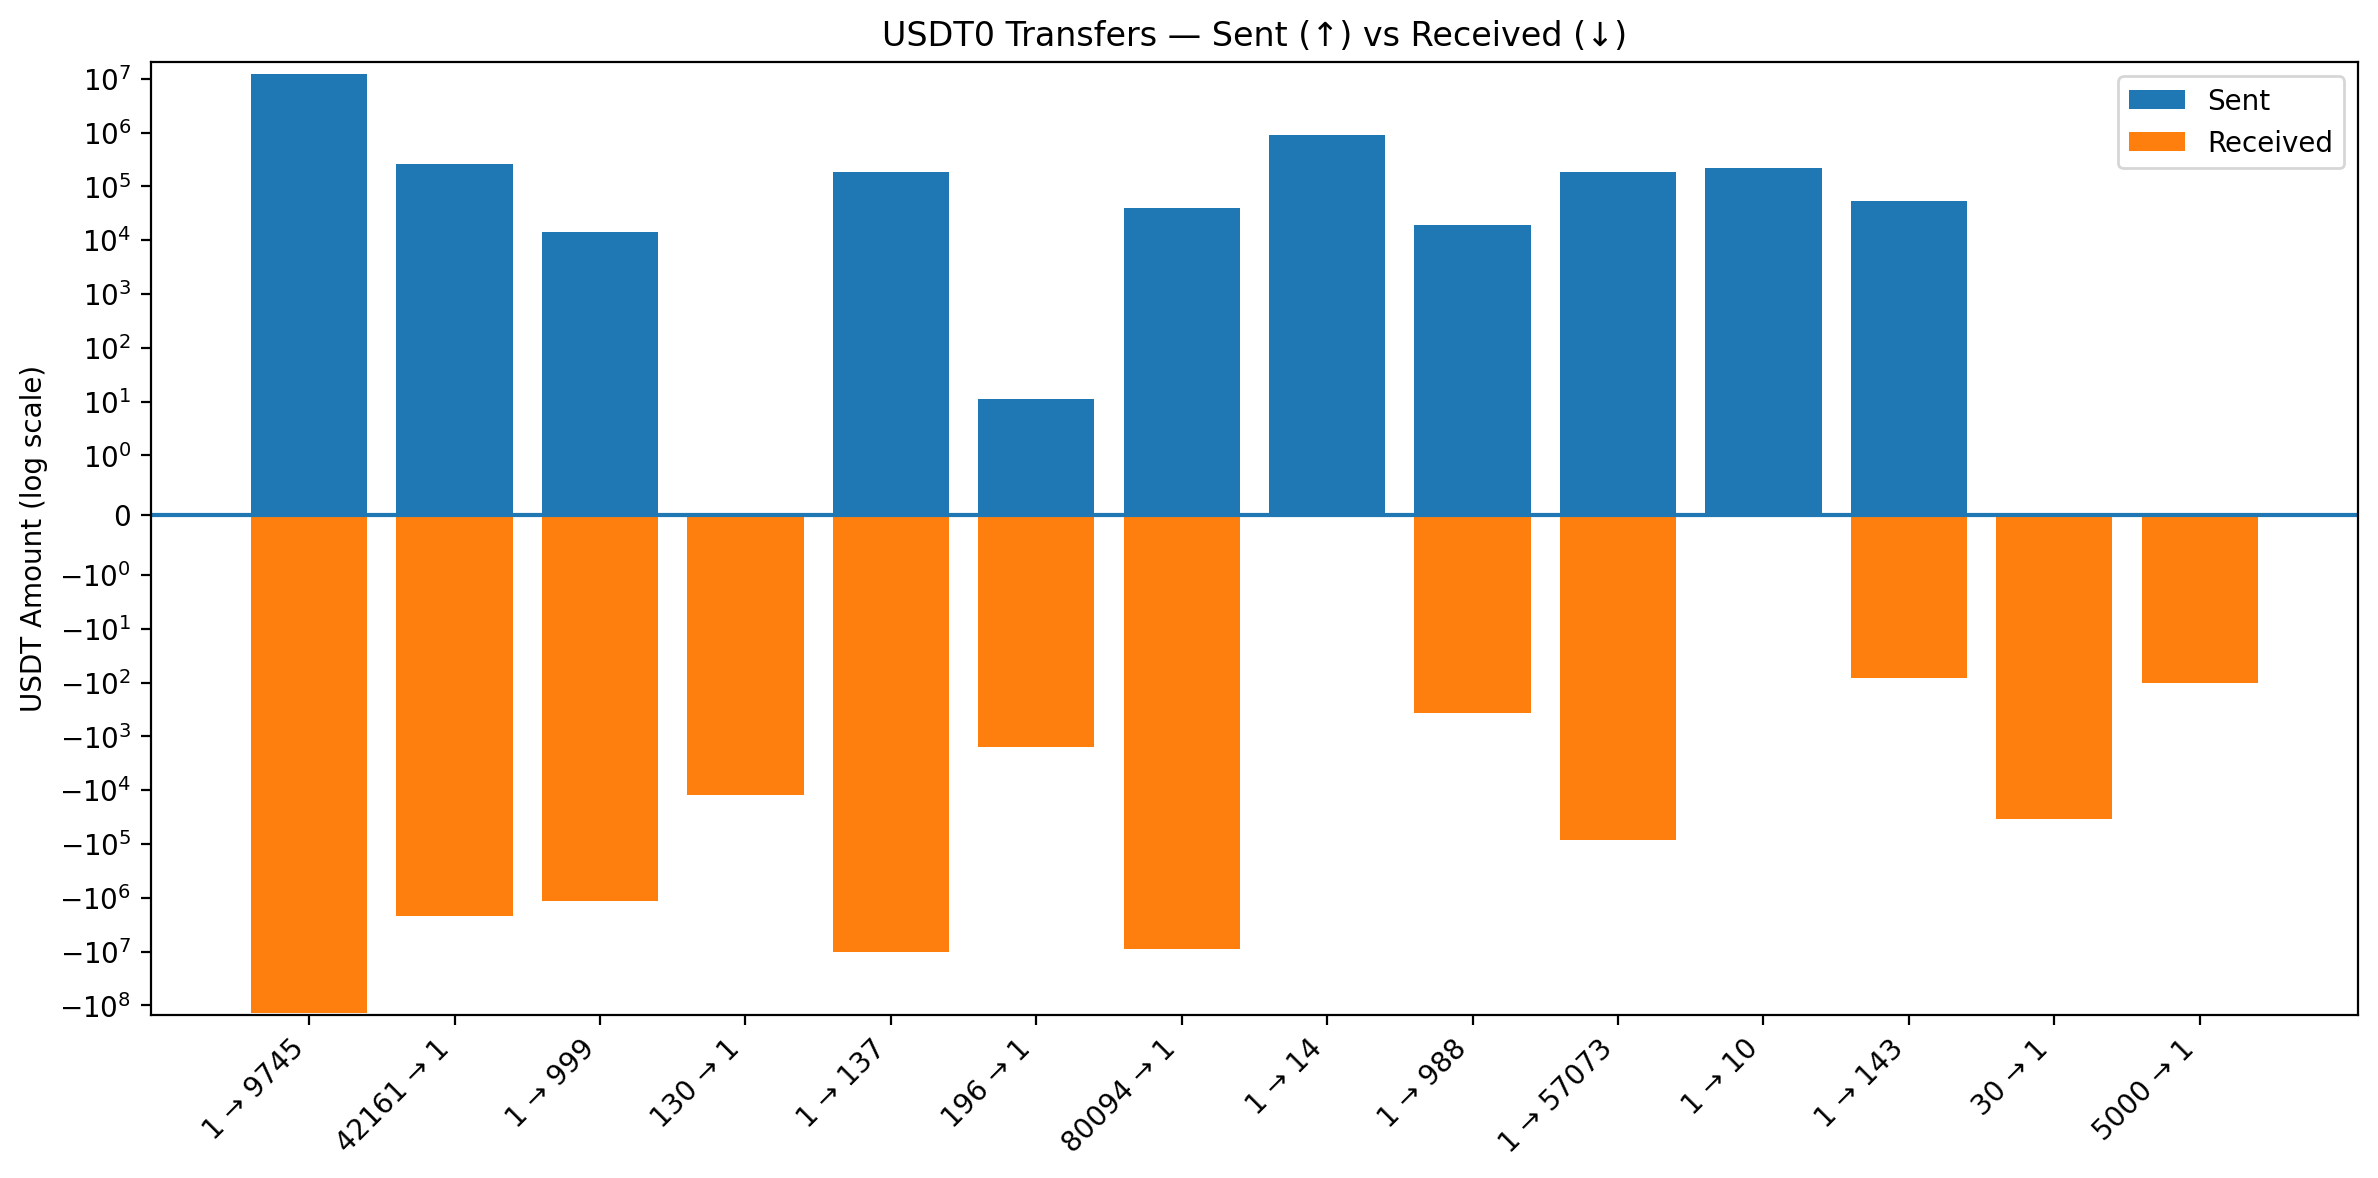
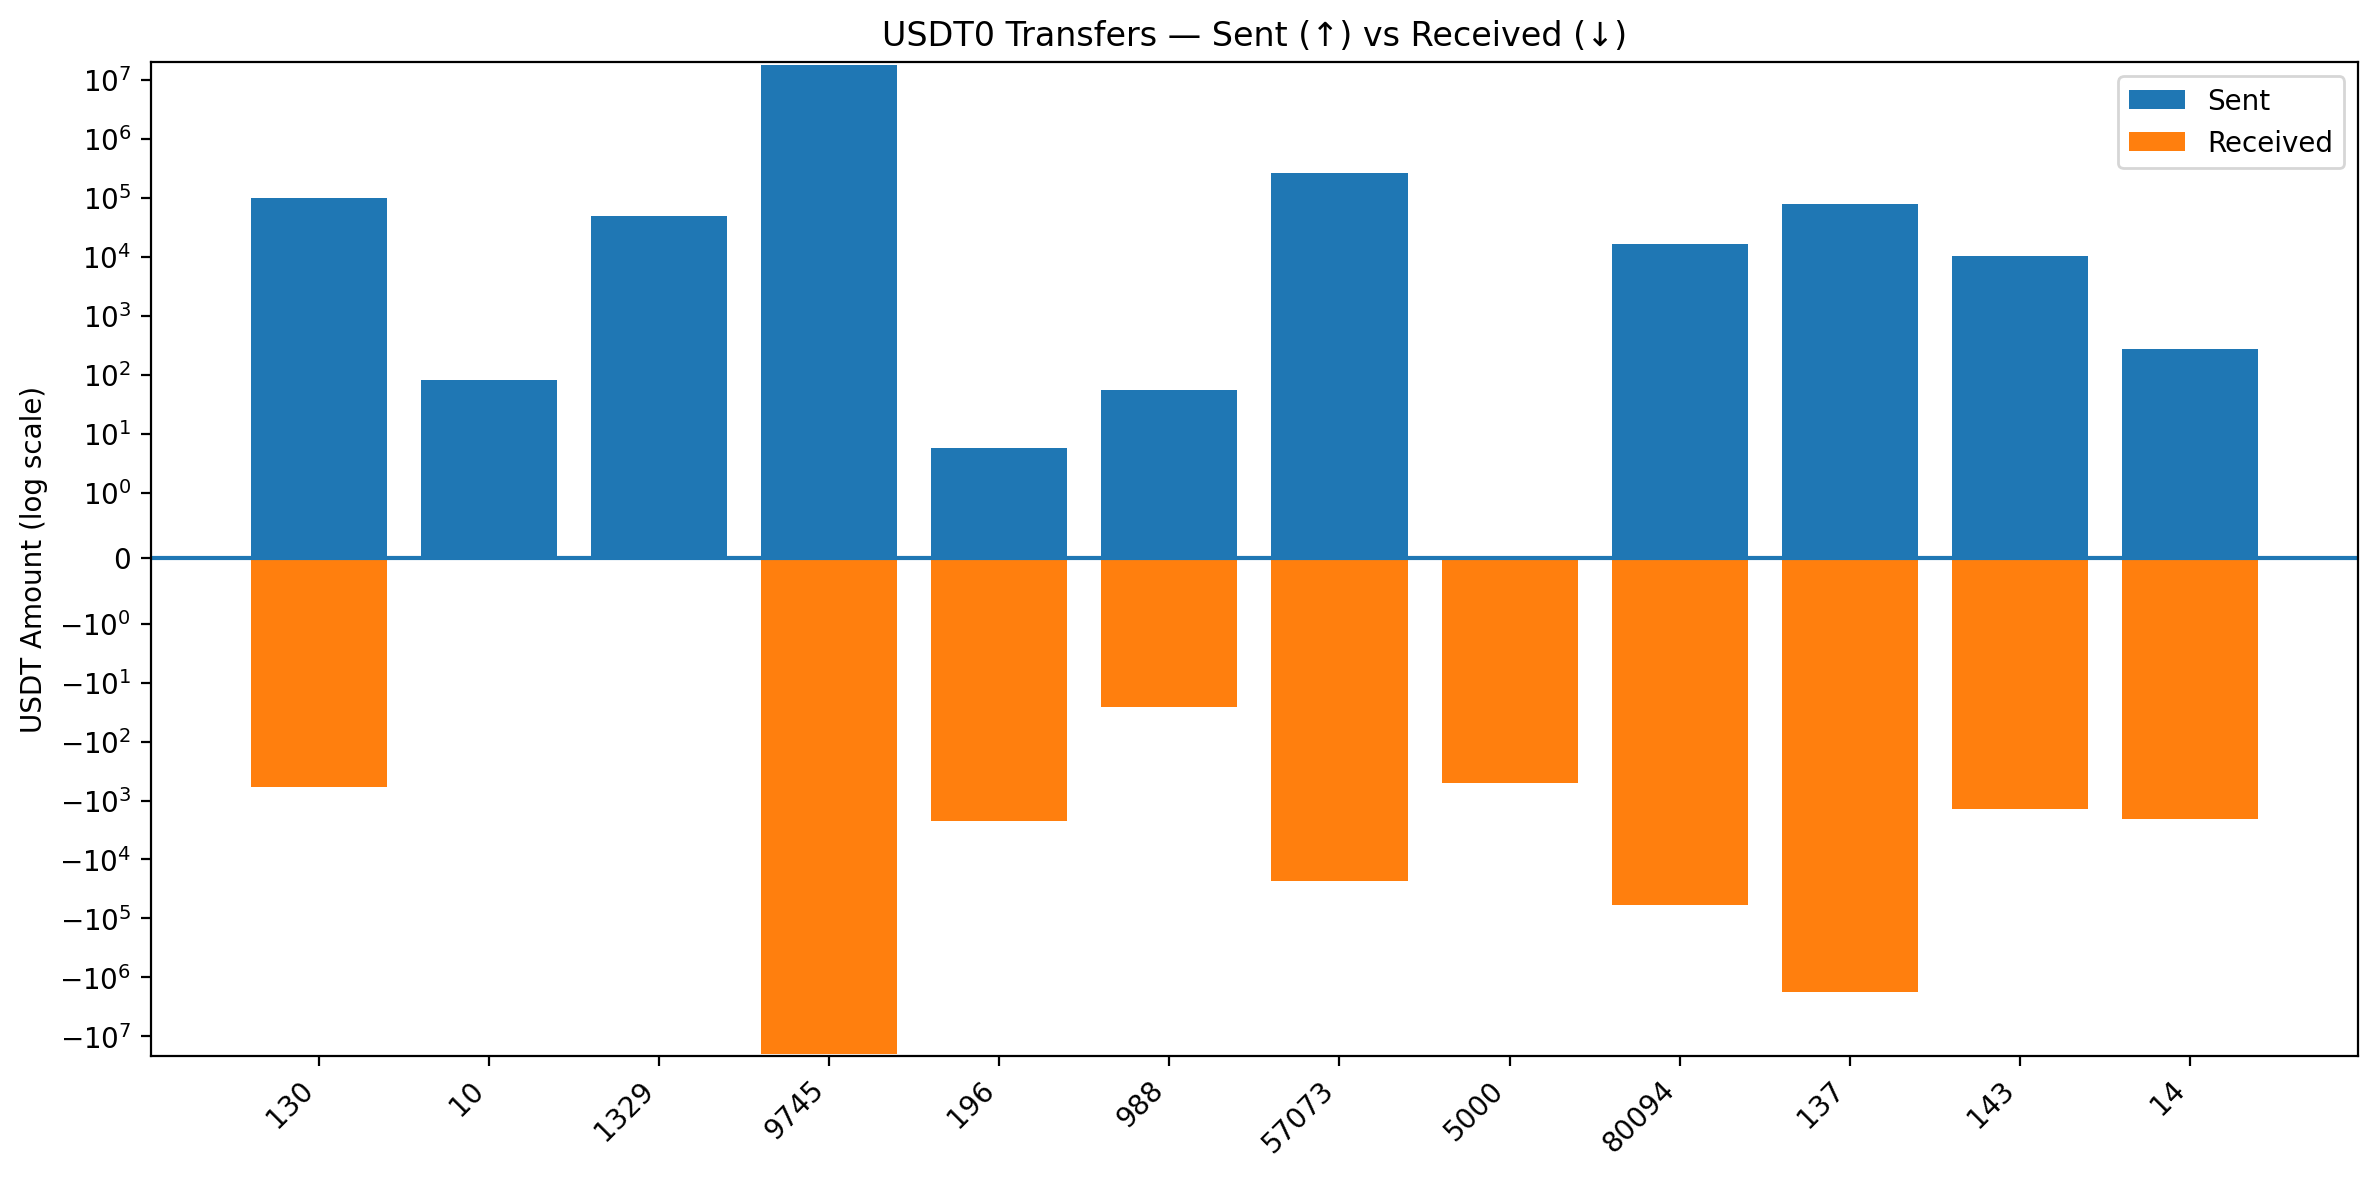
fixed logic errors & updated dashboard

diff --git a/src/EventHandlers.ts b/src/EventHandlers.ts
@@ -63,6 +63,8 @@ USDT0.OFTReceived.handler(async ({ event, context }) => {
     toAddress: ZERO_ADDRESS,
     amountSent: 0,
     amountReceived: 0,
+    txHashReceived: "",
+    txHashSent: "",
   });
 
   // Note: As our current indexer is single-chain, there can be USDT0Transfer entities
@@ -78,6 +80,7 @@ USDT0.OFTReceived.handler(async ({ event, context }) => {
 
     toAddress: event.params.toAddress,
     amountReceived: bigIntToDecimal(event.params.amountReceivedLD, 6),
+    txHashReceived: event.transaction.hash,
   };
 
   // TODO: check received amount is same as received amount from OFTSent event
@@ -86,12 +89,10 @@ USDT0.OFTReceived.handler(async ({ event, context }) => {
   context.USDT0Transfer.set(transfer);
 
   const startOfDayTS = startOfDayUTC(event.block.timestamp);
-  let dailySnapshotId = `${transfer.dstChain}-${transfer.srcChain}-${startOfDayTS}`;
+  let dailySnapshotId = `${transfer.srcChain}-${startOfDayTS}`;
 
   let dailyStats = await context.dailyUSDT0TransferStats.getOrCreate({
     id: dailySnapshotId,
-    srcChain: transfer.srcChain,
-    dstChain: transfer.dstChain,
     date: startOfDayTS,
     totalSentTransfers: 0,
     totalReceivedTransfers: 0,
@@ -119,6 +120,8 @@ USDT0.OFTSent.handler(async ({ event, context }) => {
     toAddress: ZERO_ADDRESS,
     amountSent: 0,
     amountReceived: 0,
+    txHashReceived: "",
+    txHashSent: "",
   });
 
   transfer = {
@@ -129,6 +132,7 @@ USDT0.OFTSent.handler(async ({ event, context }) => {
     fromAddress: event.params.fromAddress,
     amountSent: bigIntToDecimal(event.params.amountSentLD, 6),
     amountReceived: bigIntToDecimal(event.params.amountSentLD, 6),
+    txHashSent: event.transaction.hash,
   };
 
   // update amountReceived
@@ -136,12 +140,10 @@ USDT0.OFTSent.handler(async ({ event, context }) => {
 
   // TODO: update dailyUSDT0TransferStats entity
   const startOfDayTS = startOfDayUTC(event.block.timestamp);
-  let dailySnapshotId = `${transfer.srcChain}-${transfer.dstChain}-${startOfDayTS}`;
+  let dailySnapshotId = `${transfer.dstChain}-${startOfDayTS}`;
 
   let dailyStats = await context.dailyUSDT0TransferStats.getOrCreate({
     id: dailySnapshotId,
-    srcChain: transfer.srcChain,
-    dstChain: transfer.dstChain,
     date: startOfDayTS,
     totalSentTransfers: 0,
     totalReceivedTransfers: 0,

diff --git a/dashboard/visualize_data.py b/dashboard/visualize_data.py
@@ -7,10 +7,15 @@ app = marimo.App(width="medium")
 @app.cell
 def _():
     import requests
+    import json
     import matplotlib.pyplot as plt
     import numpy as np
+    import pandas as pd
+    from datetime import datetime, timezone
+    import marimo as mo
+    import altair as alt
 
-    return np, plt, requests
+    return datetime, np, plt, requests, timezone
 
 
 @app.cell
@@ -18,34 +23,41 @@ def _():
     GRAPHQL_ENDPOINT = "http://localhost:8080/v1/graphql"
     QUERY = """
 
-    {
-      dailyUSDT0TransferStats(limit: 100, where: {id: {_regex: "-1765497600"}}){
-        id
-        date
-        dstChain
-        srcChain
-        totalAmountSent
-        totalAmountReceived
-        totalSentTransfers
-        totalReceivedTransfers
+    query GetSnapshots($date: String!) {
+      dailyUSDT0TransferStats(limit: 12, where: {id: {_regex: $date}}){
+    id
+    totalAmountSent
+    totalAmountReceived
+    totalSentTransfers
+    totalReceivedTransfers
+    date
       }
     }
     """
-
     return GRAPHQL_ENDPOINT, QUERY
 
 
 @app.cell
 def _(requests):
-    def fetch_data(endpoint, query):
+    def fetch_data(endpoint, query, date):
         res = requests.post(
             endpoint,
-            json={"query": query},
+            json={
+                "query": query,
+                "variables": {
+                    "date": date
+                },
+            },
             headers={"Content-Type": "application/json"},
         )
         res.raise_for_status()
-        return res.json()["data"]["dailyUSDT0TransferStats"]
 
+        res_json = res.json()
+
+        # pretty-print full response
+        # print(json.dumps(res_json, indent=2))
+
+        return res_json["data"]["dailyUSDT0TransferStats"]
     return (fetch_data,)
 
 
@@ -56,13 +68,17 @@ def prepare_chart_data(stats):
     received_values = []
 
     for row in stats:
-        label = f'{row["srcChain"]} → {row["dstChain"]}'
+        # id format: "<chainId>-<timestamp>"
+        chain_id = row["id"].split("-", 1)[0]
+        label = chain_id
+
         sent = float(row["totalAmountSent"])
         received = float(row["totalAmountReceived"])
 
         labels.append(label)
         sent_values.append(sent)
         received_values.append(-received)  # negative for bottom
+
     return labels, sent_values, received_values
 
 
@@ -93,17 +109,34 @@ def _(np, plt):
         plt.legend()
 
         plt.tight_layout()
-        plt.show()
-
+        return plt
     return (plot_diverging_barchart,)
 
 
 @app.cell
-def _(GRAPHQL_ENDPOINT, QUERY, fetch_data, plot_diverging_barchart):
-    stats = fetch_data(GRAPHQL_ENDPOINT, QUERY)
-    labels, sent, received = prepare_chart_data(stats)
-    plot_diverging_barchart(labels, sent, received)
+def _(datetime, timezone):
+    def today_midnight_utc_unix():
+        today_midnight_utc = datetime.now(timezone.utc).replace(
+            hour=0, minute=0, second=0, microsecond=0
+        )
+        return str(int(today_midnight_utc.timestamp()))
 
+    return (today_midnight_utc_unix,)
+
+
+@app.cell
+def _(
+    GRAPHQL_ENDPOINT,
+    QUERY,
+    fetch_data,
+    plot_diverging_barchart,
+    today_midnight_utc_unix,
+):
+    stats = fetch_data(GRAPHQL_ENDPOINT, QUERY, today_midnight_utc_unix())
+    labels, sent, received = prepare_chart_data(stats)
+    show_plot = plot_diverging_barchart(labels, sent, received)
+
+    show_plot.show()
     return
 
 
